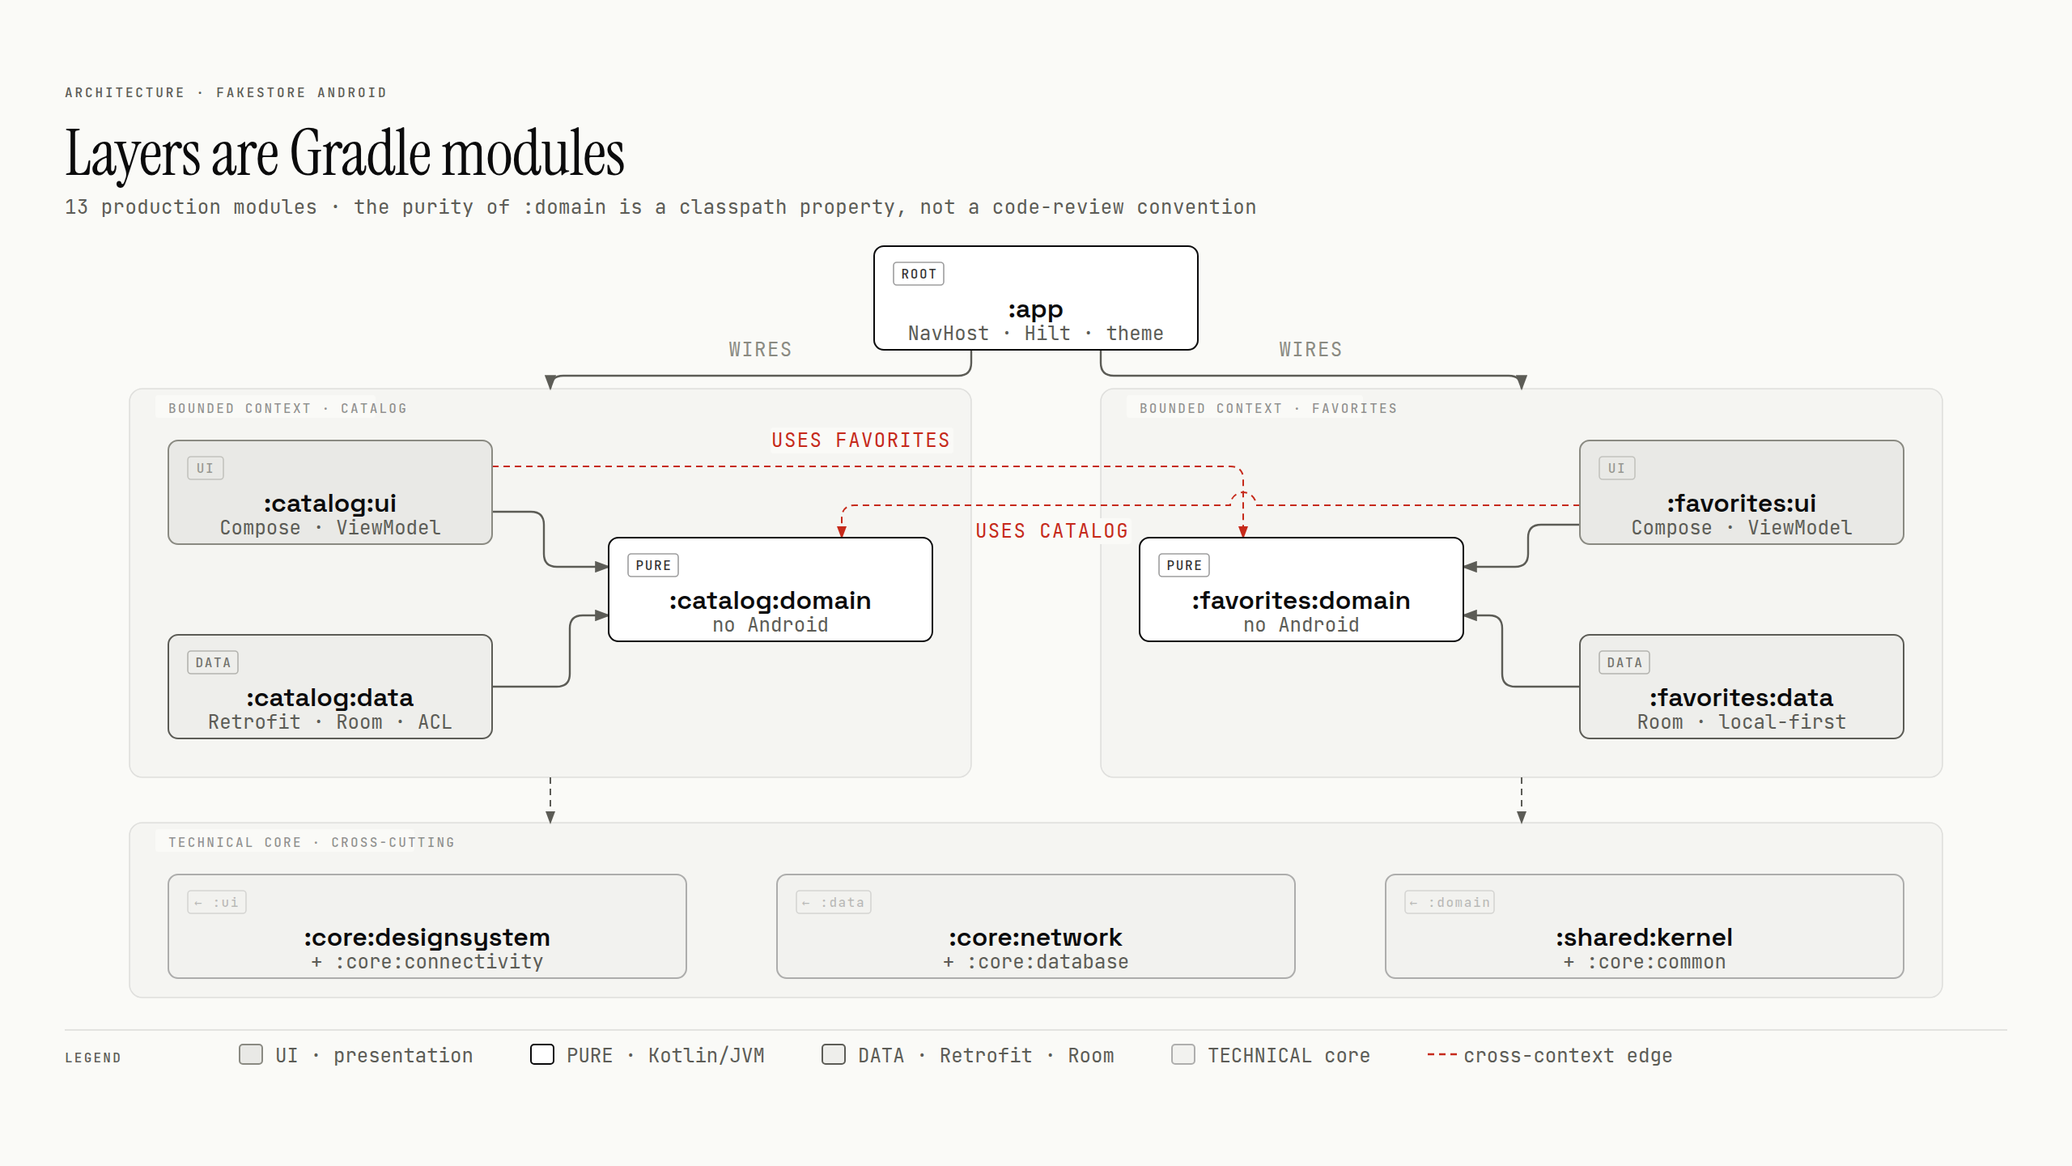
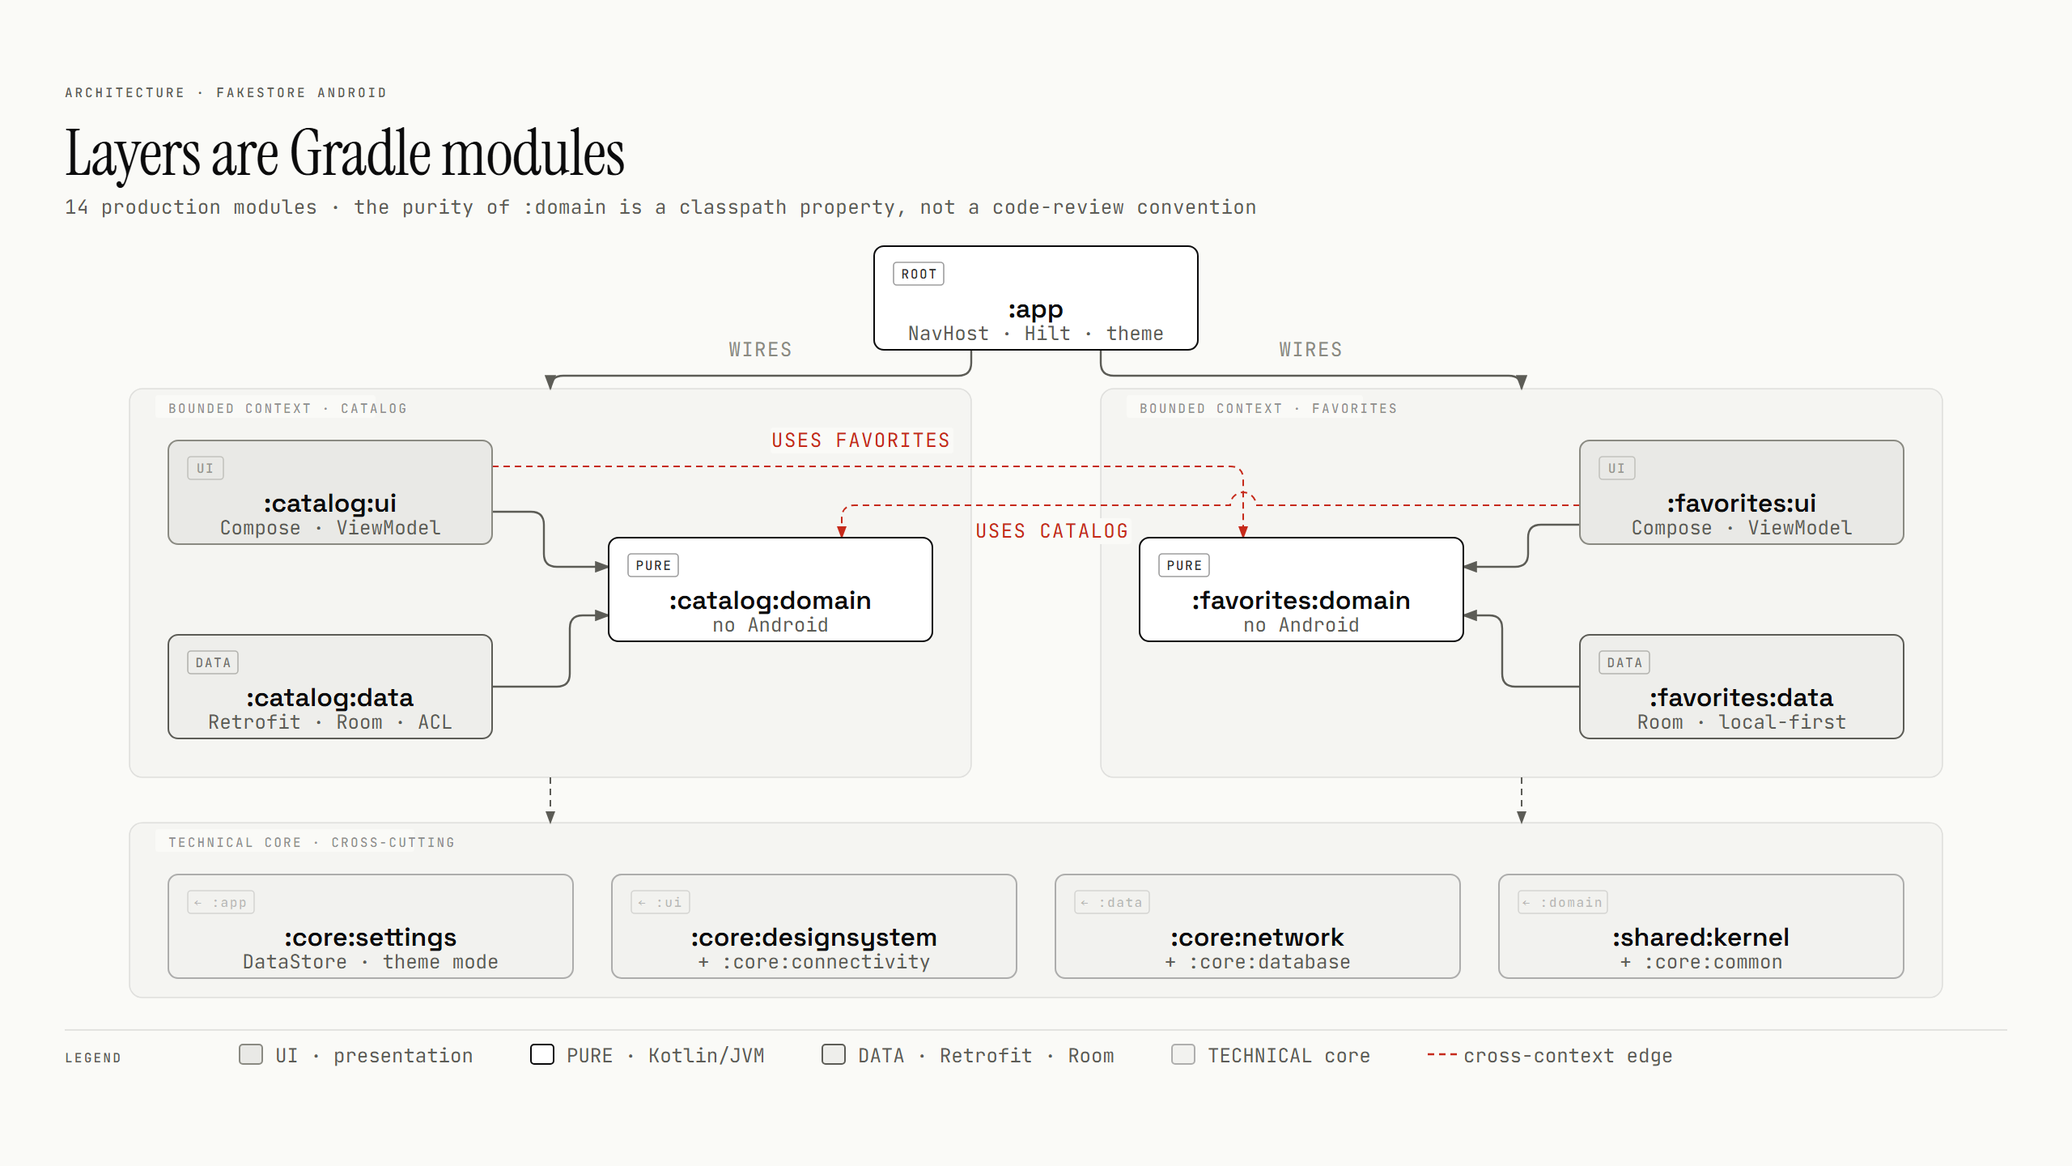
docs: document the theme toggle

diff --git a/docs/diagrams/01-module-graph.html b/docs/diagrams/01-module-graph.html
@@ -23,7 +23,7 @@
 <div class="frame">
 <svg viewBox="0 0 1280 720" xmlns="http://www.w3.org/2000/svg" role="img" aria-labelledby="module-graph-title module-graph-desc">
   <title id="module-graph-title">Layers are Gradle modules</title>
-  <desc id="module-graph-desc">Module graph of FakeStore Android: :app wires two bounded contexts, catalog and favorites, each with its ui, domain and data modules; ui and data depend on their own domain, each ui also depends on the other context's domain, and both consume a shared technical core.</desc>
+  <desc id="module-graph-desc">Module graph of FakeStore Android: :app wires two bounded contexts, catalog and favorites, each with its ui, domain and data modules; ui and data depend on their own domain, each ui also depends on the other context's domain, and both consume a shared technical core, where :core:settings keeps the theme mode for :app.</desc>
   <defs>
     <marker id="arrow" markerWidth="8" markerHeight="6" refX="7" refY="3" orient="auto"><polygon points="0 0, 8 3, 0 6" fill="#5c5c56"/></marker>
     <marker id="arrow-accent" markerWidth="8" markerHeight="6" refX="7" refY="3" orient="auto"><polygon points="0 0, 8 3, 0 6" fill="#c62a1b"/></marker>
@@ -36,7 +36,7 @@
 
   <text x="40" y="60" fill="#5c5c56" font-size="8" font-family="'JetBrains Mono', ui-monospace, monospace" font-weight="500" letter-spacing="0.18em">ARCHITECTURE · FAKESTORE ANDROID</text>
   <text x="40" y="108" fill="#0b0b0c" font-size="40" font-family="'Instrument Serif', serif" font-weight="400" letter-spacing="-0.01em">Layers are Gradle modules</text>
-  <text x="40" y="132" fill="#5c5c56" font-size="12" font-family="'JetBrains Mono', ui-monospace, monospace" letter-spacing="0.02em">13 production modules · the purity of :domain is a classpath property, not a code-review convention</text>
+  <text x="40" y="132" fill="#5c5c56" font-size="12" font-family="'JetBrains Mono', ui-monospace, monospace" letter-spacing="0.02em">14 production modules · the purity of :domain is a classpath property, not a code-review convention</text>
 
   <rect x="80" y="240" width="520" height="240" rx="8" fill="rgba(11,11,12,0.02)" stroke="rgba(11,11,12,0.10)" stroke-width="0.8"/>
   <rect x="96" y="244" width="136" height="14" rx="2" fill="#fafaf7"/>
@@ -107,24 +107,30 @@
   <text x="1004" y="412" fill="#5c5c56" fill-opacity="0.85" font-size="8" font-family="'JetBrains Mono', ui-monospace, monospace" font-weight="500" text-anchor="middle" letter-spacing="0.10em">DATA</text>
   <text x="1076" y="436" fill="#0b0b0c" font-size="16" font-weight="600" font-family="'Space Grotesk', system-ui, sans-serif" text-anchor="middle">:favorites:data</text>
   <text x="1076" y="450" fill="#5c5c56" font-size="12" font-family="'JetBrains Mono', ui-monospace, monospace" text-anchor="middle">Room · local-first</text>
-  <rect x="104" y="540" width="320" height="64" rx="6" fill="#fafaf7"/>
-  <rect x="104" y="540" width="320" height="64" rx="6" fill="rgba(11,11,12,0.03)" stroke="rgba(11,11,12,0.30)" stroke-width="1"/>
-  <rect x="116" y="550" width="36" height="14" rx="2" fill="none" stroke="rgba(11,11,12,0.30)" stroke-opacity="0.40" stroke-width="0.8"/>
-  <text x="134" y="560" fill="rgba(11,11,12,0.30)" fill-opacity="0.85" font-size="8" font-family="'JetBrains Mono', ui-monospace, monospace" font-weight="500" text-anchor="middle" letter-spacing="0.10em">← :ui</text>
-  <text x="264" y="584" fill="#0b0b0c" font-size="16" font-weight="600" font-family="'Space Grotesk', system-ui, sans-serif" text-anchor="middle">:core:designsystem</text>
-  <text x="264" y="598" fill="#5c5c56" font-size="12" font-family="'JetBrains Mono', ui-monospace, monospace" text-anchor="middle">+ :core:connectivity</text>
-  <rect x="480" y="540" width="320" height="64" rx="6" fill="#fafaf7"/>
-  <rect x="480" y="540" width="320" height="64" rx="6" fill="rgba(11,11,12,0.03)" stroke="rgba(11,11,12,0.30)" stroke-width="1"/>
-  <rect x="492" y="550" width="46" height="14" rx="2" fill="none" stroke="rgba(11,11,12,0.30)" stroke-opacity="0.40" stroke-width="0.8"/>
-  <text x="515" y="560" fill="rgba(11,11,12,0.30)" fill-opacity="0.85" font-size="8" font-family="'JetBrains Mono', ui-monospace, monospace" font-weight="500" text-anchor="middle" letter-spacing="0.10em">← :data</text>
-  <text x="640" y="584" fill="#0b0b0c" font-size="16" font-weight="600" font-family="'Space Grotesk', system-ui, sans-serif" text-anchor="middle">:core:network</text>
-  <text x="640" y="598" fill="#5c5c56" font-size="12" font-family="'JetBrains Mono', ui-monospace, monospace" text-anchor="middle">+ :core:database</text>
-  <rect x="856" y="540" width="320" height="64" rx="6" fill="#fafaf7"/>
-  <rect x="856" y="540" width="320" height="64" rx="6" fill="rgba(11,11,12,0.03)" stroke="rgba(11,11,12,0.30)" stroke-width="1"/>
-  <rect x="868" y="550" width="55" height="14" rx="2" fill="none" stroke="rgba(11,11,12,0.30)" stroke-opacity="0.40" stroke-width="0.8"/>
-  <text x="896" y="560" fill="rgba(11,11,12,0.30)" fill-opacity="0.85" font-size="8" font-family="'JetBrains Mono', ui-monospace, monospace" font-weight="500" text-anchor="middle" letter-spacing="0.10em">← :domain</text>
-  <text x="1016" y="584" fill="#0b0b0c" font-size="16" font-weight="600" font-family="'Space Grotesk', system-ui, sans-serif" text-anchor="middle">:shared:kernel</text>
-  <text x="1016" y="598" fill="#5c5c56" font-size="12" font-family="'JetBrains Mono', ui-monospace, monospace" text-anchor="middle">+ :core:common</text>
+  <rect x="104" y="540" width="250" height="64" rx="6" fill="#fafaf7"/>
+  <rect x="104" y="540" width="250" height="64" rx="6" fill="rgba(11,11,12,0.03)" stroke="rgba(11,11,12,0.30)" stroke-width="1"/>
+  <rect x="116" y="550" width="41" height="14" rx="2" fill="none" stroke="rgba(11,11,12,0.30)" stroke-opacity="0.40" stroke-width="0.8"/>
+  <text x="136.5" y="560" fill="rgba(11,11,12,0.30)" fill-opacity="0.85" font-size="8" font-family="'JetBrains Mono', ui-monospace, monospace" font-weight="500" text-anchor="middle" letter-spacing="0.10em">← :app</text>
+  <text x="229" y="584" fill="#0b0b0c" font-size="16" font-weight="600" font-family="'Space Grotesk', system-ui, sans-serif" text-anchor="middle">:core:settings</text>
+  <text x="229" y="598" fill="#5c5c56" font-size="12" font-family="'JetBrains Mono', ui-monospace, monospace" text-anchor="middle">DataStore · theme mode</text>
+  <rect x="378" y="540" width="250" height="64" rx="6" fill="#fafaf7"/>
+  <rect x="378" y="540" width="250" height="64" rx="6" fill="rgba(11,11,12,0.03)" stroke="rgba(11,11,12,0.30)" stroke-width="1"/>
+  <rect x="390" y="550" width="36" height="14" rx="2" fill="none" stroke="rgba(11,11,12,0.30)" stroke-opacity="0.40" stroke-width="0.8"/>
+  <text x="408" y="560" fill="rgba(11,11,12,0.30)" fill-opacity="0.85" font-size="8" font-family="'JetBrains Mono', ui-monospace, monospace" font-weight="500" text-anchor="middle" letter-spacing="0.10em">← :ui</text>
+  <text x="503" y="584" fill="#0b0b0c" font-size="16" font-weight="600" font-family="'Space Grotesk', system-ui, sans-serif" text-anchor="middle">:core:designsystem</text>
+  <text x="503" y="598" fill="#5c5c56" font-size="12" font-family="'JetBrains Mono', ui-monospace, monospace" text-anchor="middle">+ :core:connectivity</text>
+  <rect x="652" y="540" width="250" height="64" rx="6" fill="#fafaf7"/>
+  <rect x="652" y="540" width="250" height="64" rx="6" fill="rgba(11,11,12,0.03)" stroke="rgba(11,11,12,0.30)" stroke-width="1"/>
+  <rect x="664" y="550" width="46" height="14" rx="2" fill="none" stroke="rgba(11,11,12,0.30)" stroke-opacity="0.40" stroke-width="0.8"/>
+  <text x="687" y="560" fill="rgba(11,11,12,0.30)" fill-opacity="0.85" font-size="8" font-family="'JetBrains Mono', ui-monospace, monospace" font-weight="500" text-anchor="middle" letter-spacing="0.10em">← :data</text>
+  <text x="777" y="584" fill="#0b0b0c" font-size="16" font-weight="600" font-family="'Space Grotesk', system-ui, sans-serif" text-anchor="middle">:core:network</text>
+  <text x="777" y="598" fill="#5c5c56" font-size="12" font-family="'JetBrains Mono', ui-monospace, monospace" text-anchor="middle">+ :core:database</text>
+  <rect x="926" y="540" width="250" height="64" rx="6" fill="#fafaf7"/>
+  <rect x="926" y="540" width="250" height="64" rx="6" fill="rgba(11,11,12,0.03)" stroke="rgba(11,11,12,0.30)" stroke-width="1"/>
+  <rect x="938" y="550" width="55" height="14" rx="2" fill="none" stroke="rgba(11,11,12,0.30)" stroke-opacity="0.40" stroke-width="0.8"/>
+  <text x="965.5" y="560" fill="rgba(11,11,12,0.30)" fill-opacity="0.85" font-size="8" font-family="'JetBrains Mono', ui-monospace, monospace" font-weight="500" text-anchor="middle" letter-spacing="0.10em">← :domain</text>
+  <text x="1051" y="584" fill="#0b0b0c" font-size="16" font-weight="600" font-family="'Space Grotesk', system-ui, sans-serif" text-anchor="middle">:shared:kernel</text>
+  <text x="1051" y="598" fill="#5c5c56" font-size="12" font-family="'JetBrains Mono', ui-monospace, monospace" text-anchor="middle">+ :core:common</text>
   <line x1="40" y1="636" x2="1240" y2="636" stroke="rgba(11,11,12,0.12)" stroke-width="0.8"/>
   <text x="40" y="656" fill="#5c5c56" font-size="8" font-family="'JetBrains Mono', ui-monospace, monospace" font-weight="500" letter-spacing="0.14em">LEGEND</text>
   <rect x="148" y="645" width="14" height="12" rx="2" fill="rgba(92,92,86,0.10)" stroke="#8a8a82" stroke-width="1"/>

diff --git a/docs/architecture.md b/docs/architecture.md
@@ -19,7 +19,7 @@ makes it compile, and the diff then shows it. One part is absolute: `*:domain` a
 
 ## Module graph
 
-![Module graph: :app wires the catalog and favorites contexts, each with ui, domain and data modules. ui and data depend on their own domain, each ui also depends on the other context's domain, and both contexts use a shared technical core.](diagrams/01-module-graph.png)
+![Module graph: :app wires the catalog and favorites contexts, each with ui, domain and data modules. ui and data depend on their own domain, each ui also depends on the other context's domain, and both contexts use a shared technical core, where :core:settings keeps the theme mode for :app.](diagrams/01-module-graph.png)
 
 The dashed edges are the only cross-context dependencies, and both start at a `ui`: the catalog needs
 favorite IDs to draw its hearts, and the favorites screen needs `Product` to draw its cards. No
@@ -37,6 +37,7 @@ and those edges carry no production code.
 | 3 | `*:ui` depends on `*:domain`, never on `*:data` | Build files. Nothing fails if one adds the edge |
 | 4 | Contexts integrate in presentation: a `ui` may use the other context's `domain`; `domain` and `data` never reach another context | Build files. Each `data` using only its own DAO is a convention: every DAO in [`:core:database`](../core/database/src/main/kotlin/cl/gus/labs/fakestore/core/database/dao/) is public |
 | 5 | `:shared:kernel` holds only what both contexts speak | Review. Today: [`ProductId` and `AppError`](../shared/kernel/src/main/kotlin/cl/gus/labs/fakestore/shared/kernel/) |
+| 6 | `:core:settings` is app-shell state: only `:app` depends on it, and a screen gets the theme mode as a value and a callback | Build files. Nothing fails if a context adds the edge |
 
 No test enforces these rules yet. Architecture tests are on the [roadmap](roadmap.md#now).
 
@@ -94,7 +95,7 @@ each feature registers its own entries with typed `@Serializable` keys
 
 | Module | Type | Responsibility |
 |---|---|---|
-| `:app` | Android app | Composition root: Hilt graph, back stack, theme |
+| `:app` | Android app | Composition root: Hilt graph, back stack, theme and splash screen |
 | `:catalog:domain` | Kotlin/JVM | `Product`, `Category`, `Rating`, `CatalogRepository`, use cases |
 | `:catalog:data` | Android lib | Retrofit and Room behind `CatalogRepositoryImpl`, the ACL |
 | `:catalog:ui` | Compose lib | Catalog and detail screens, ViewModels, navigation entries |
@@ -107,6 +108,7 @@ each feature registers its own entries with typed `@Serializable` keys
 | `:core:database` | Android lib | The single Room database: entities, DAOs, migrations, exported schemas |
 | `:core:designsystem` | Compose lib | Theme, tokens, atoms, molecules and organisms |
 | `:core:connectivity` | Android lib | `NetworkMonitor`: `ConnectivityManager` as a `Flow<Boolean>` |
+| `:core:settings` | Android lib | `SettingsRepository`: the theme mode in Preferences DataStore |
 | `:core:testing` | Kotlin/JVM | `MainDispatcherExtension` and the shared test dependencies |
 
 ## Convention plugins

diff --git a/docs/testing.md b/docs/testing.md
@@ -16,7 +16,9 @@ architecture tests and instrumented tests.
 | Network | OkHttp, Retrofit and JSON wiring; the empty-body converter; the error ACL | JUnit 5, MockWebServer | ✅ |
 | Persistence | DAO behavior, including the favorite toggle transaction | Robolectric | ✅ |
 | Connectivity | The `ConnectivityManager` callback flow: several networks, captive portals, unregistration | Robolectric, Turbine | ✅ |
+| Settings | The DataStore adapter on a real file: defaults, unknown values, read and write failures, updates in one transaction | JUnit 5 | ✅ |
 | Presentation | Every ViewModel state, with virtual time | JUnit 5, Turbine, `kotlinx-coroutines-test` | ✅ |
+| App shell | The theme state, the splash condition and the toggle, two fast taps included | JUnit 5 | ✅ |
 | Screens | Every preview of the feature screens, light and dark | Robolectric, Roborazzi | ✅ |
 | Design system | Every preview, light and dark | Robolectric, Roborazzi, ComposablePreviewScanner | ✅ |
 | Architecture | The [dependency rules](architecture.md#dependency-rules) as tests | — | 📋 [Now](roadmap.md#now) |
@@ -33,7 +35,8 @@ Robolectric and Compose's test rules are JUnit 4; they run through the vintage e
   hand-written classes named by role: a `Stub…` returns what the test sets, a `Fake…` works in memory.
 - **Robolectric only where the framework is under test:** `:core:database`, `:core:connectivity` and
   the screenshot modules. Each `data` module talks to a `LocalDataSource` interface, not a DAO, so its
-  tests are plain JVM. Everything downstream of `NetworkMonitor` uses
+  tests are plain JVM. DataStore needs no Robolectric: `:core:settings` tests the real one on a
+  temporary file. Everything downstream of `NetworkMonitor` uses
   [`StubNetworkMonitor`](../catalog/ui/src/test/kotlin/cl/gus/labs/fakestore/catalog/ui/StubNetworkMonitor.kt).
 - **Dispatchers.** `ConnectivityNetworkMonitor` takes its dispatcher through `@IoDispatcher`, so its tests
   pass an `UnconfinedTestDispatcher` on the `runTest` scheduler and the callback assertions cannot race.

diff --git a/README.md b/README.md
@@ -43,7 +43,7 @@ the single source of truth, and a build that enforces the dependency rules.
 - **Contexts meet only in presentation:** a `ui` may use the other context's `domain`; nothing below
   crosses.
 
-![Module graph: :app wires the catalog and favorites contexts, each with ui, domain and data modules. ui and data depend on their own domain, each ui also depends on the other context's domain, and both contexts use a shared technical core.](docs/diagrams/01-module-graph.png)
+![Module graph: :app wires the catalog and favorites contexts, each with ui, domain and data modules. ui and data depend on their own domain, each ui also depends on the other context's domain, and both contexts use a shared technical core, where :core:settings keeps the theme mode for :app.](docs/diagrams/01-module-graph.png)
 
 ## Testing at a glance
 
@@ -62,7 +62,7 @@ Coverage on `main` · domain ![domain coverage](https://codecov.io/gh/gustavo-pe
 | UI | Jetpack Compose, Material 3, Navigation 3 |
 | DI | Hilt with KSP |
 | Network | Retrofit, OkHttp, kotlinx.serialization |
-| Persistence | Room, with exported schemas |
+| Persistence | Room, with exported schemas; DataStore for preferences |
 | Images | Coil |
 | Tests | JUnit 5, Turbine, MockWebServer, Robolectric, Roborazzi |
 | Build and CI | Convention plugins, version catalog, Kover, Codecov, GitHub Actions |

diff --git a/docs/influences.md b/docs/influences.md
@@ -14,6 +14,8 @@ differently. The reasoning behind each departure lives in [decisions](decisions.
   - Its rule "a feature's `impl` depends only on another feature's `api`" is this repo's "a `ui` uses
     only the other context's `domain`" ([dependency rules](architecture.md#dependency-rules)).
   - Docs the build generates: its module graph in each README, the [UI gallery](ui-gallery.md) here.
+  - The theme as app-wide state over DataStore, read by an activity ViewModel that holds the splash
+    screen until it loads ([decision 10](decisions.md#10-the-theme-is-app-shell-state-kept-in-datastore)).
 - **Where I depart:**
   - Modules group by bounded context, each with `ui`, `domain` and `data`; there, by kind (`core`,
     `feature`).
@@ -24,6 +26,8 @@ differently. The reasoning behind each departure lives in [decisions](decisions.
   - No catalog app for the design system, at least for now: there, `app-nia-catalog` runs every
     component; here, the [UI gallery](ui-gallery.md) shows their screenshots.
   - No benchmarks or Baseline Profiles yet ([roadmap](roadmap.md#later)).
+  - Preferences DataStore for one enum, and the theme toggle in the list's top bar; there, Proto
+    DataStore and a settings dialog.
 
 ## Google's guide to app architecture
 

diff --git a/docs/decisions.md b/docs/decisions.md
@@ -73,3 +73,16 @@ is marked as such, not deleted.
 - **Paid.** The join happens in memory, in each ViewModel.
 - **Otherwise.** Once the catalog is paginated, the in-memory join stops being free; that is the
   trigger to revisit, not table size.
+
+## 10. The theme is app-shell state, kept in DataStore
+
+- **Gained.** One owner: `:app` reads the stored mode, applies it and handles the toggle. The catalog
+  only hosts the button, and no context knows the preference exists. Each toggle reads and writes in
+  one DataStore transaction, so two fast taps cannot lose a step (as in decision 7). The adapter is
+  tested against the real DataStore on the JVM.
+- **Paid.** The splash and the window background are XML resources that follow the system theme, so a
+  cold start shows the system's colors for an instant when the stored mode differs. One more module
+  and a splash-screen dependency.
+- **Otherwise.** With a minimum SDK of 31, the platform's per-app night mode applies the choice to the
+  whole configuration, splash included. With many preferences, a typed DataStore over
+  kotlinx.serialization.

diff --git a/docs/roadmap.md b/docs/roadmap.md
@@ -24,7 +24,6 @@ hardening and the larger designs. Each item links to its issue once one exists.
   screenshots.
 - **Localization.** English by default with `values-es`; price and rating formatted by locale.
 - **State.** Keep the category filter across process death, and restore edge-to-edge.
-- **Theme toggle.** Wire the moon slot the top bar already has.
 - **Screenshots recorded in CI**, with the diffs on the pull request.
 - **Static analysis.** ktlint and detekt with baselines, and Lint with warnings as errors.
 

diff --git a/docs/design-system.md b/docs/design-system.md
@@ -37,8 +37,8 @@ The list screen as specified, in both themes, next to the build:
   </tr>
 </table>
 
-The spec's moon icon is a runtime theme toggle. It is not wired yet (the app follows the system
-theme); the boards stay as drawn.
+The spec's moon icon became a three-state toggle: automatic, light and dark, each with its own icon and
+state description. `:app` keeps the mode in `:core:settings`; the boards stay as drawn.
 
 ## Boards
 
